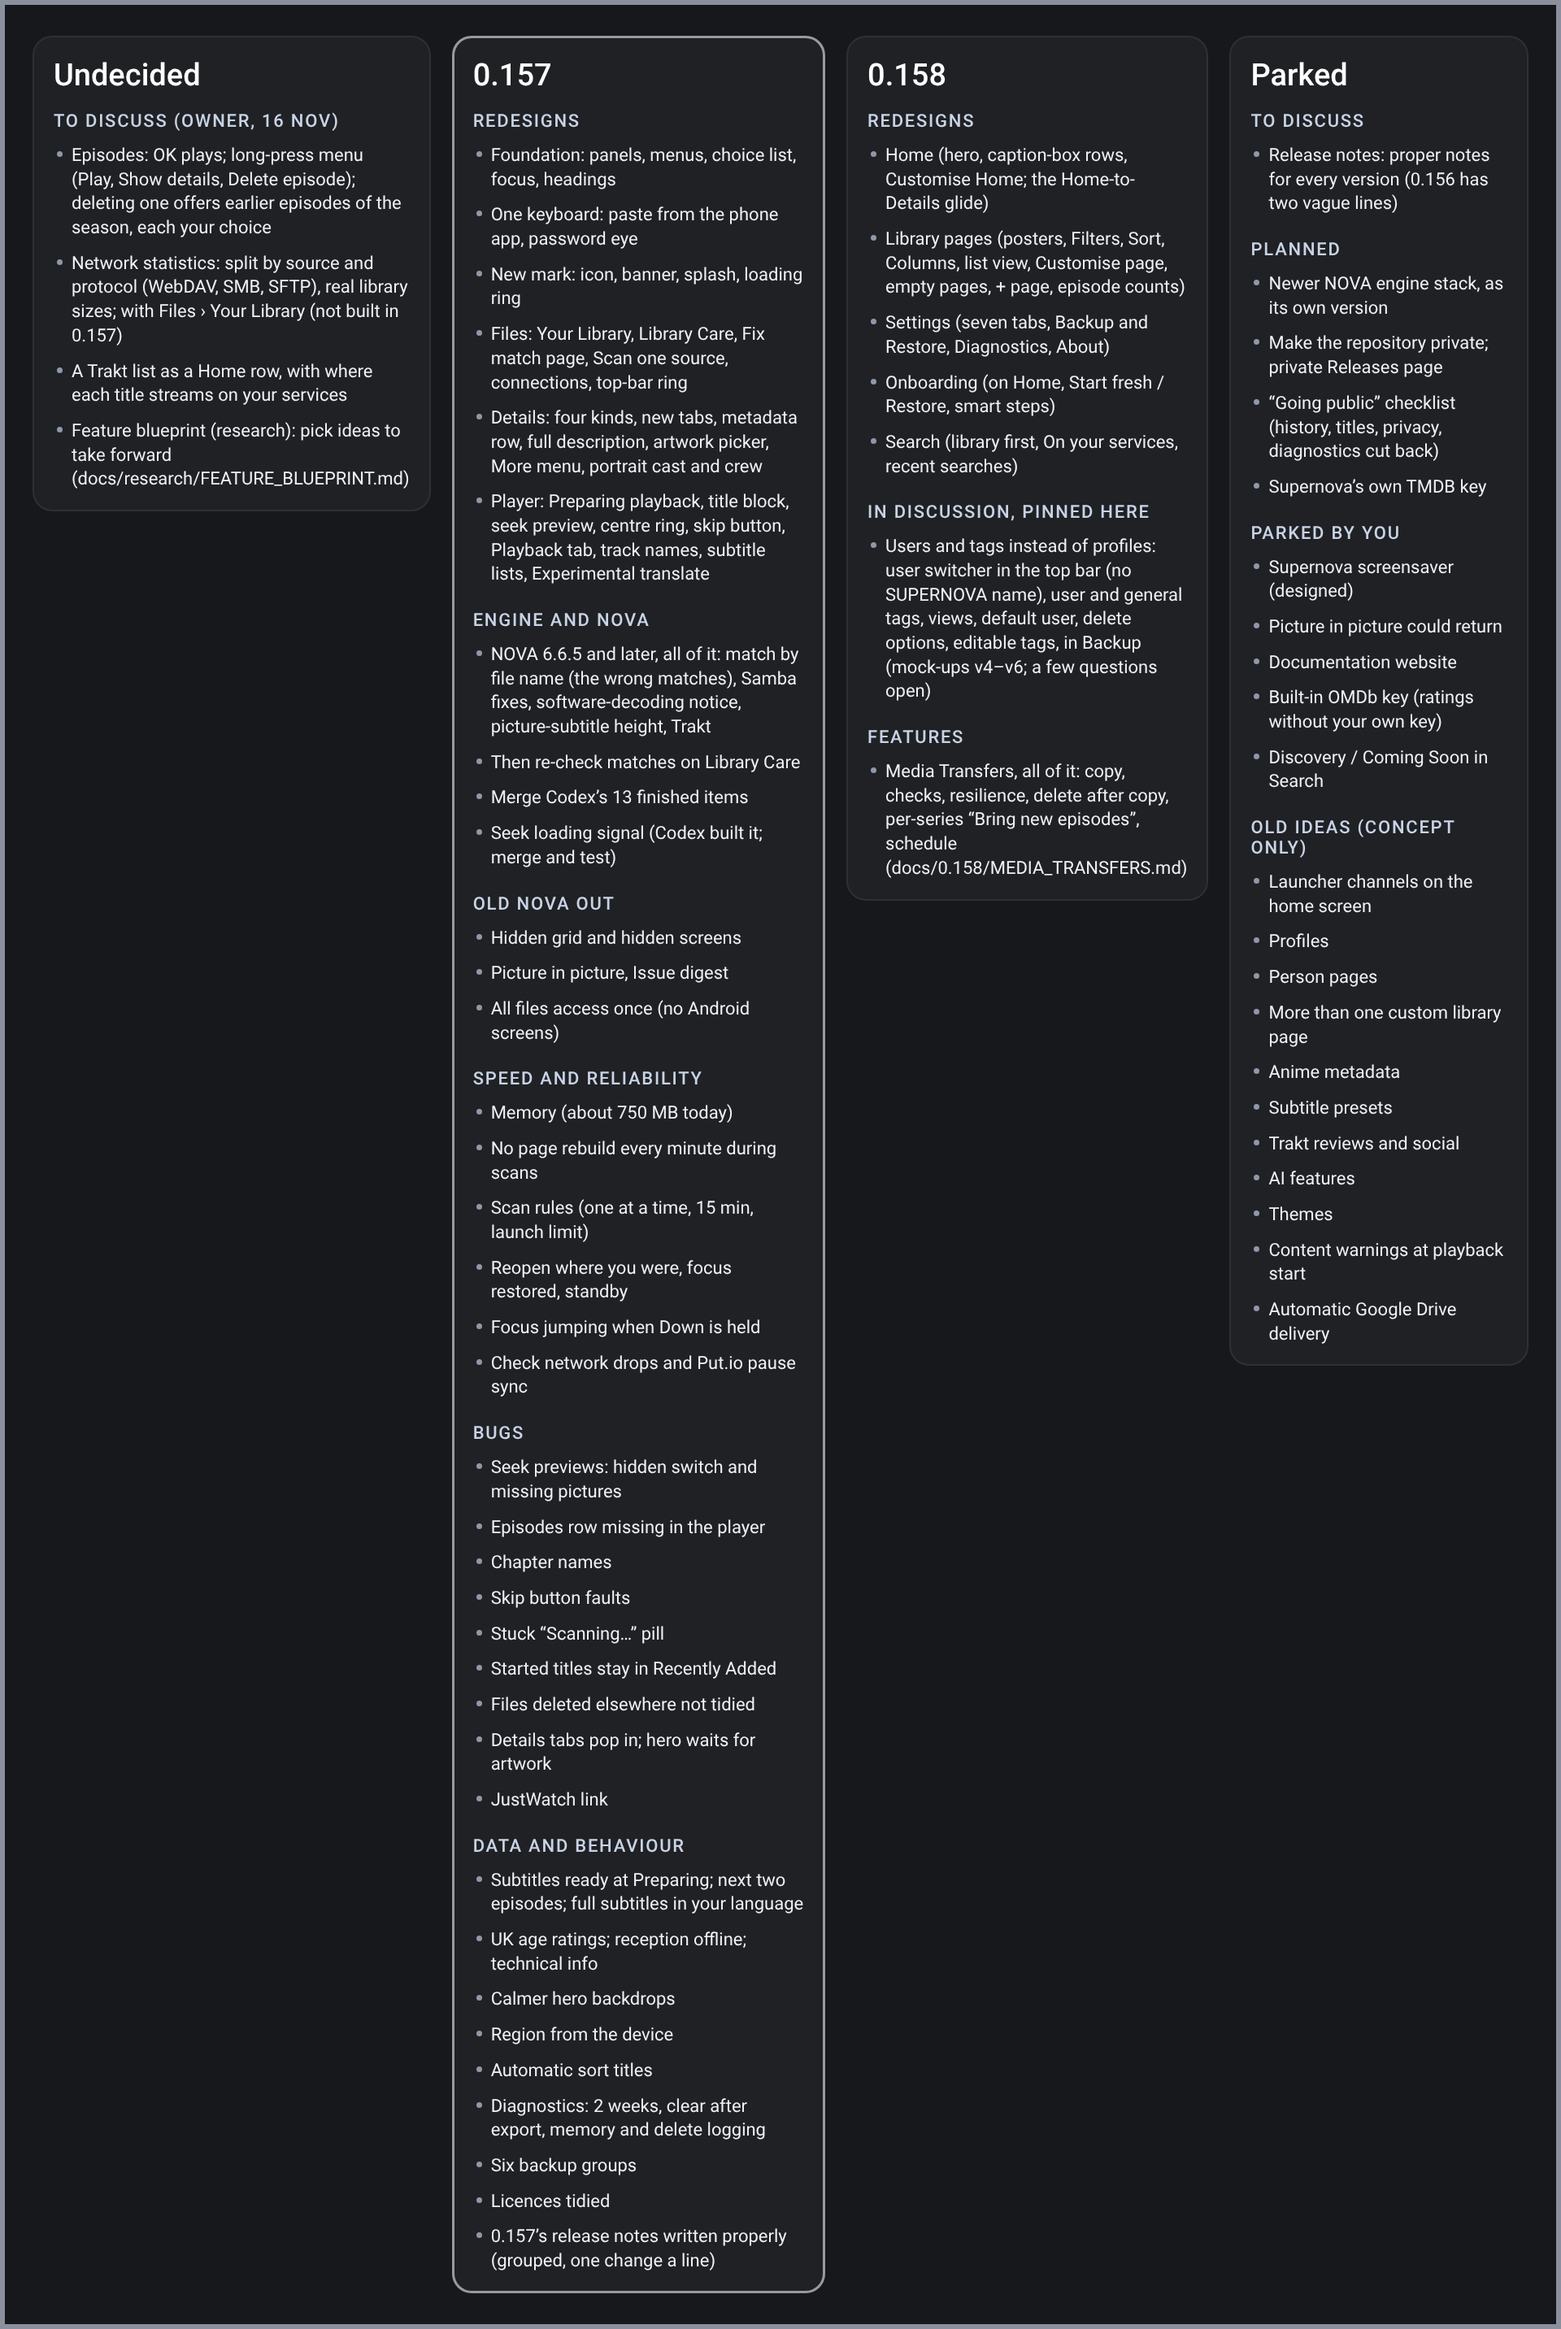
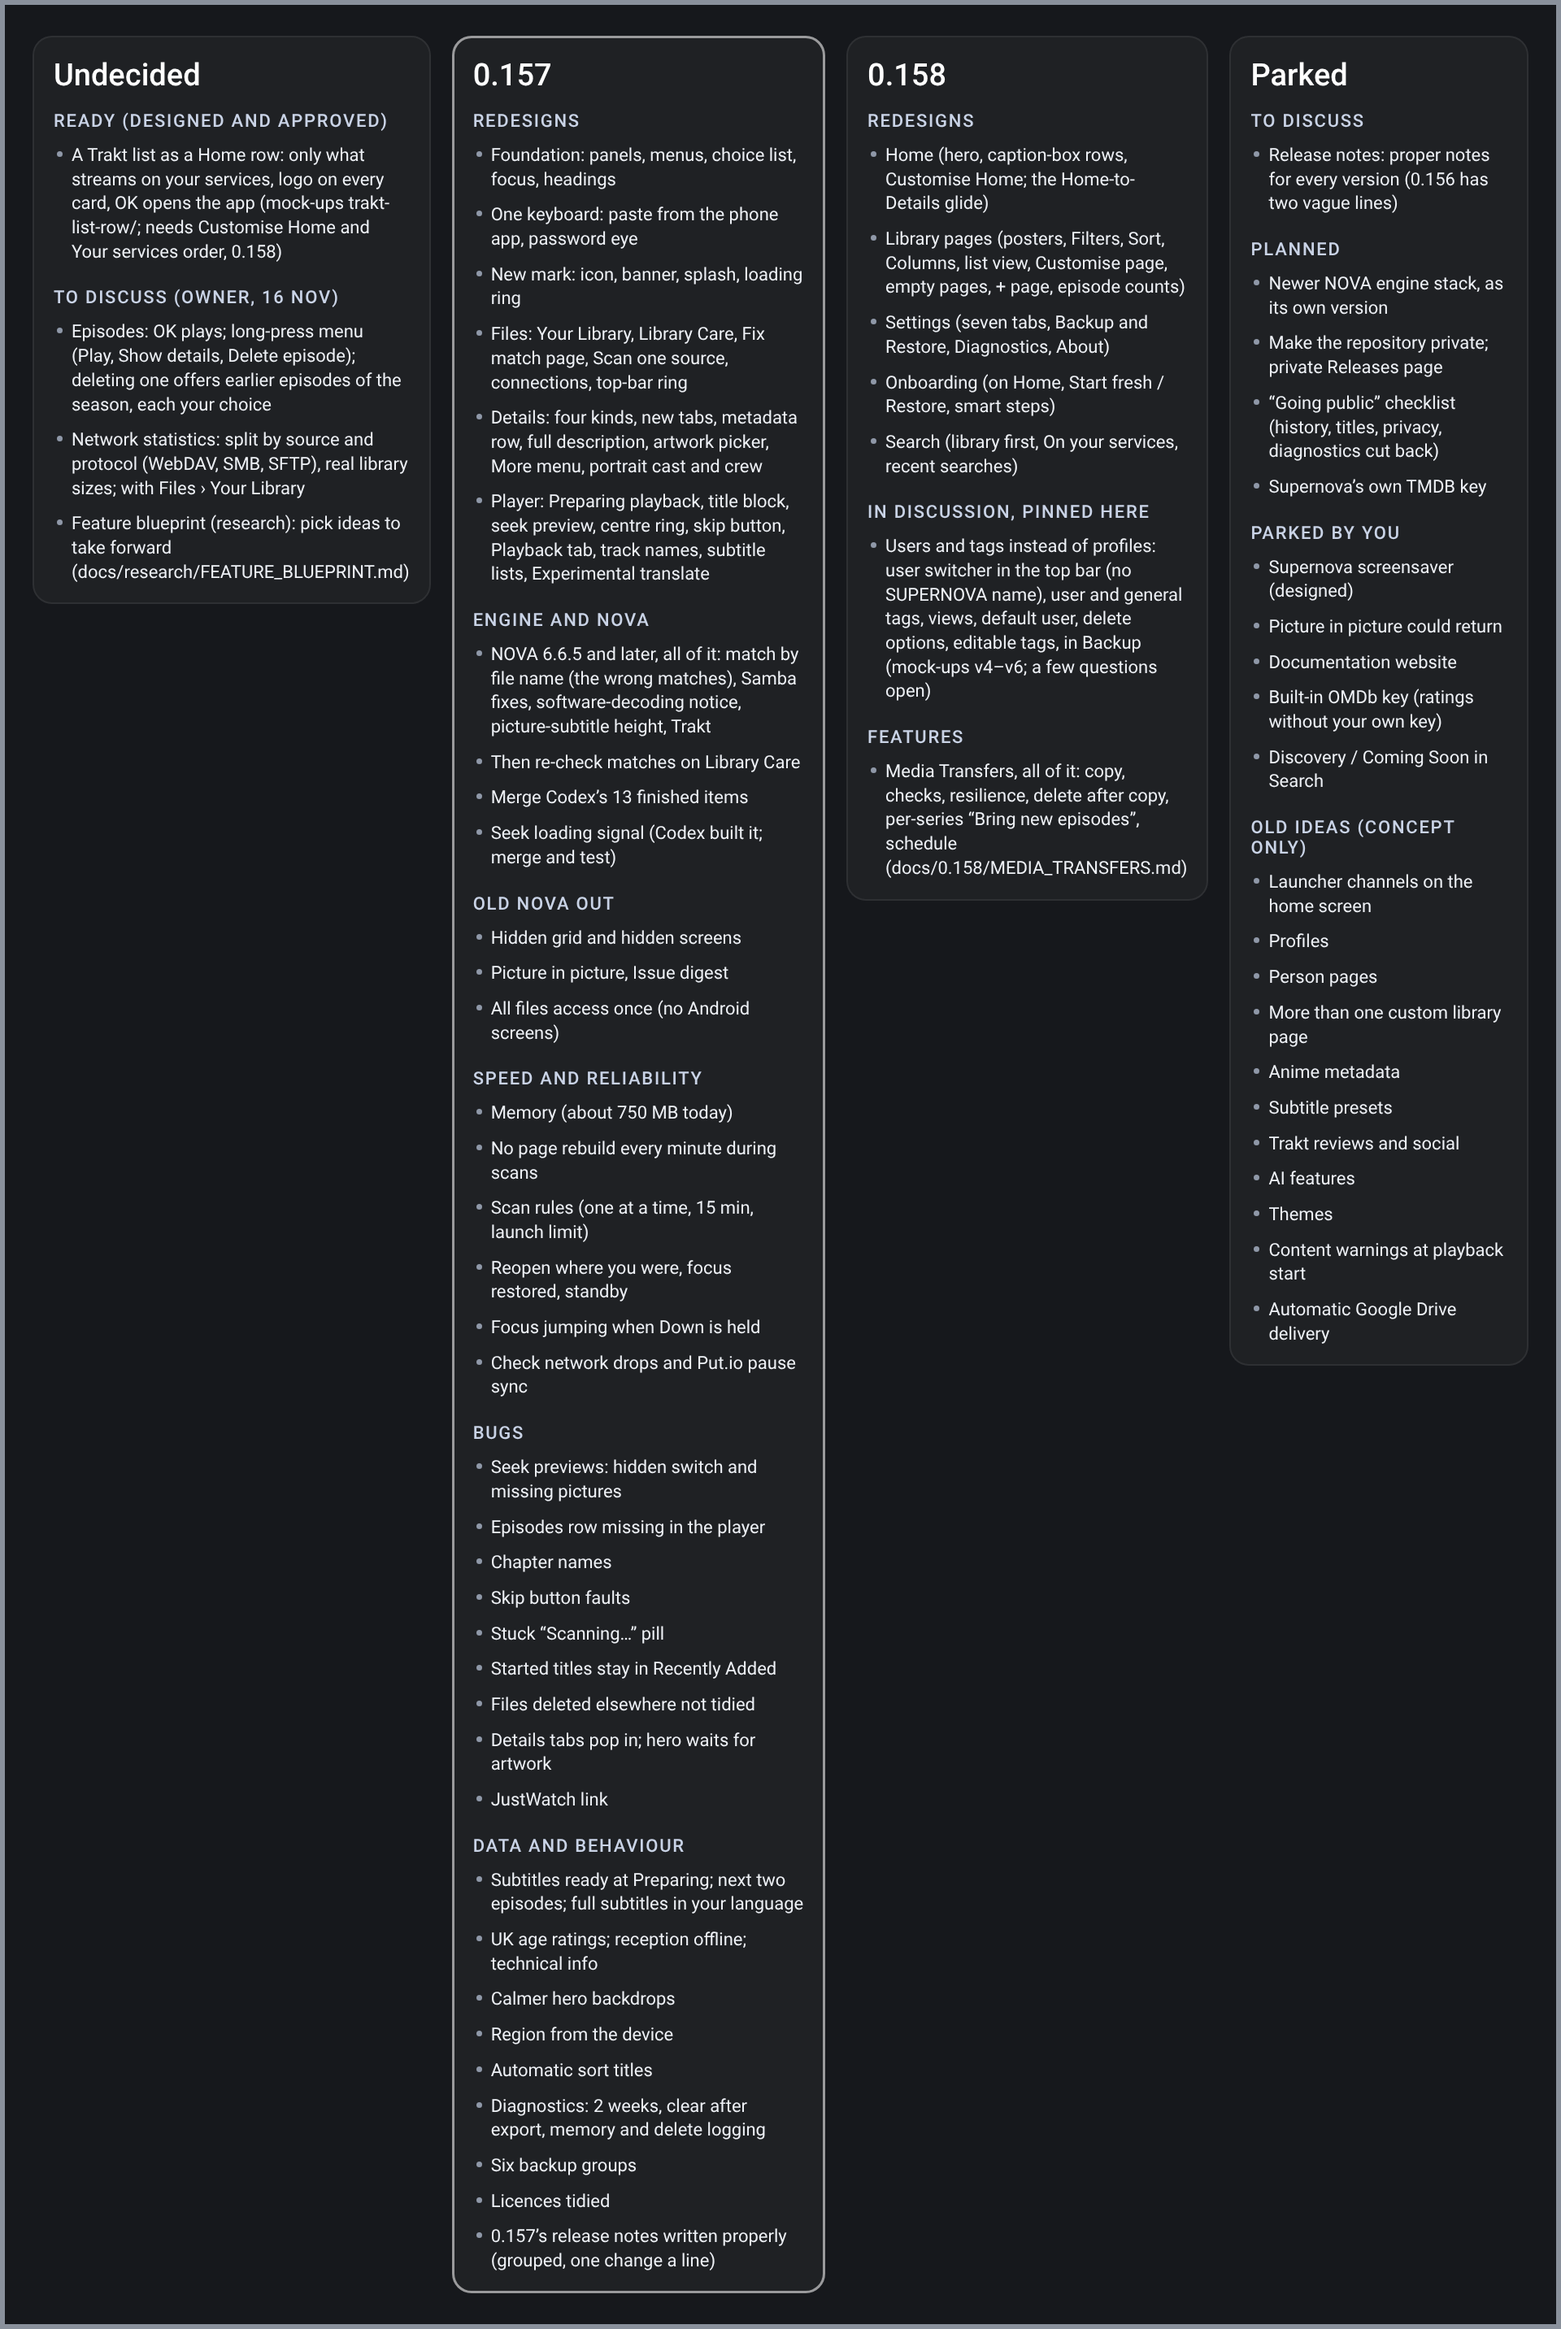
Roadmap: Undecided split into Ready (designed and approved) and To discuss; Trakt list row is Ready
Claude-Session: https://claude.ai/code/session_01FtDZqb1Ka4HivD8bozkUhx

Changed region(s): [[0.0312, 0.0311, 0.25, 0.2485]]

diff --git a/docs/0.157/board/render.js b/docs/0.157/board/render.js
@@ -9,11 +9,12 @@ const font = w => `@font-face{font-family:R;font-weight:${w};src:url(data:font/w
 
 const cols = [
   ['Undecided', [
+    ['Ready (designed and approved)', ['A Trakt list as a Home row: only what streams on your services, logo on every '
+      + 'card, OK opens the app (mock-ups trakt-list-row/; needs Customise Home and Your services order, 0.158)']],
     ['To discuss (owner, 16 Nov)', ['Episodes: OK plays; long-press menu (Play, Show details, Delete episode); '
       + 'deleting one offers earlier episodes of the season, each your choice', 'Network statistics: split by '
-      + 'source and protocol (WebDAV, SMB, SFTP), real library sizes; with Files › Your Library (not built in 0.157)',
-      'A Trakt list as a Home row, with where each title streams on your services', 'Feature blueprint (research): '
-      + 'pick ideas to take forward (docs/research/FEATURE_BLUEPRINT.md)']],
+      + 'source and protocol (WebDAV, SMB, SFTP), real library sizes; with Files › Your Library',
+      'Feature blueprint (research): pick ideas to take forward (docs/research/FEATURE_BLUEPRINT.md)']],
   ]],
   ['0.157', [
     ['Redesigns', ['Foundation: panels, menus, choice list, focus, headings', 'One keyboard: paste from the phone '

diff --git a/CLAUDE.md b/CLAUDE.md
@@ -25,8 +25,8 @@ and how the owner works. **If you are new: read this file, then the "Start here"
 7. `docs/REVISIT_LATER.md` — **Parked**: every idea not assigned to a version (the roadmap's Parked column). "Park
    that" adds to it; anything the owner raises that matches a parked idea is added to that idea's notes.
 8. `docs/DISCUSSION_HANDOVER.md` — for discussion sessions: roadmap, parked ideas, the users-and-tags feature.
-9. `docs/0.157/board/version-board.png` (script beside it) — the **roadmap**: Undecided · 0.157 · 0.158 · Parked. Keep it
-   current whenever something moves.
+9. `docs/0.157/board/version-board.png` (script beside it) — the **roadmap**: Undecided (**Ready**: designed and
+   approved, waiting for a version; **To discuss**) · 0.157 · 0.158 · Parked. Keep it current whenever something moves.
 10. `docs/research/FEATURE_BLUEPRINT.md` — the owner's research blueprint of possible future features (not a to-do
     list), each line marked built, planned, parked, new idea or to check.
 

diff --git a/docs/0.158/OWNER_NOTES.md b/docs/0.158/OWNER_NOTES.md
@@ -39,4 +39,5 @@ investigating, ask the owner for their existing Supernova research document and 
      and "Add a Trakt list"**, each opening its own panel (option B, `trakt-optB-01`, `-02`): kept to today's design
      rather than a panel whose rows swap. The Trakt panel: The List (List link, On your services "12 of 20" with
      "Netflix 5 · Prime Video 4 · Disney+ 3"), The Row (Row name, Icon, Maximum items), a quiet line, Add row. The link
-     is pasted with the one keyboard's Phone key. Real full-colour logos. Open: logo on every card or only the focused one.
+     is pasted with the one keyboard's Phone key. Real full-colour logos, **on every card** (owner, 16 Nov: same as elsewhere). **Design complete and approved;
+     on the roadmap under Undecided › Ready until it is given a version.**
